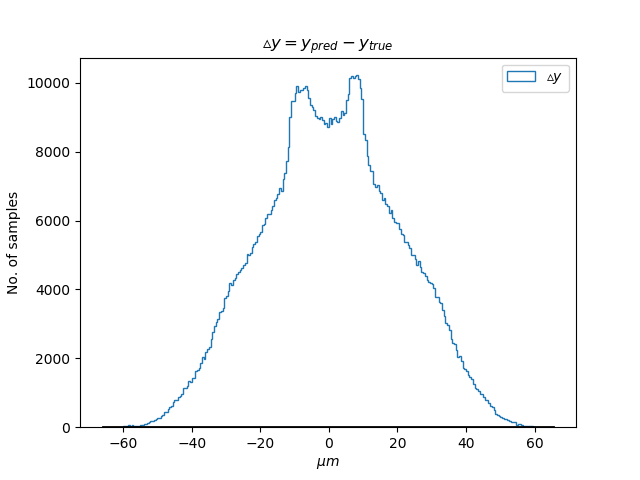
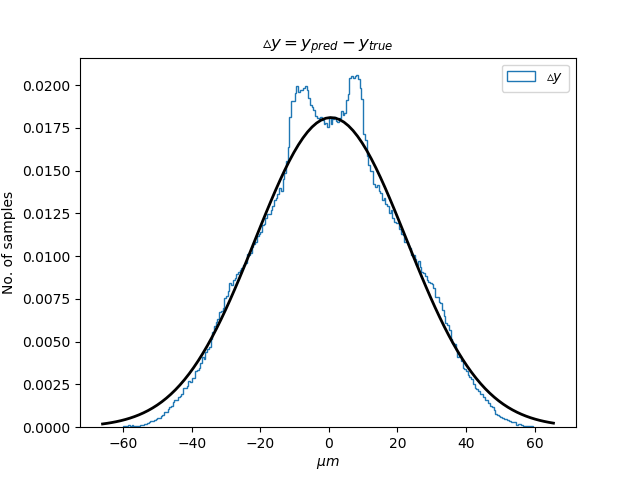
x and y fits

diff --git a/code/find_hit_position.py b/code/find_hit_position.py
@@ -182,7 +182,7 @@ from scipy.stats import norm
 mean_x, sigma_x = norm.fit(residuals_x)
 print("mean_x = %0.2f, sigma_x = %0.2f"%(mean_x,sigma_x))
 
-plt.hist(residuals_x, bins=np.arange(-60,60,0.5), histtype='step', label=r'$\vartriangle x$')
+plt.hist(residuals_x, bins=np.arange(-60,60,0.5), histtype='step', label=r'$\vartriangle x$', density=True)
 xmin, xmax = plt.xlim()
 x = np.linspace(xmin, xmax, 100)
 p = norm.pdf(x, mean_x, sigma_x)
@@ -198,7 +198,7 @@ plt.close()
 mean_y, sigma_y = norm.fit(residuals_y)
 print("mean_y = %0.2f, sigma_y = %0.2f"%(mean_y,sigma_y))
 
-plt.hist(residuals_y, bins=np.arange(-60,60,0.5), histtype='step', label=r'$\vartriangle y$')
+plt.hist(residuals_y, bins=np.arange(-60,60,0.5), histtype='step', label=r'$\vartriangle y$', density=True)
 xmin, xmax = plt.xlim()
 x = np.linspace(xmin, xmax, 100)
 p = norm.pdf(x, mean_y, sigma_y)
